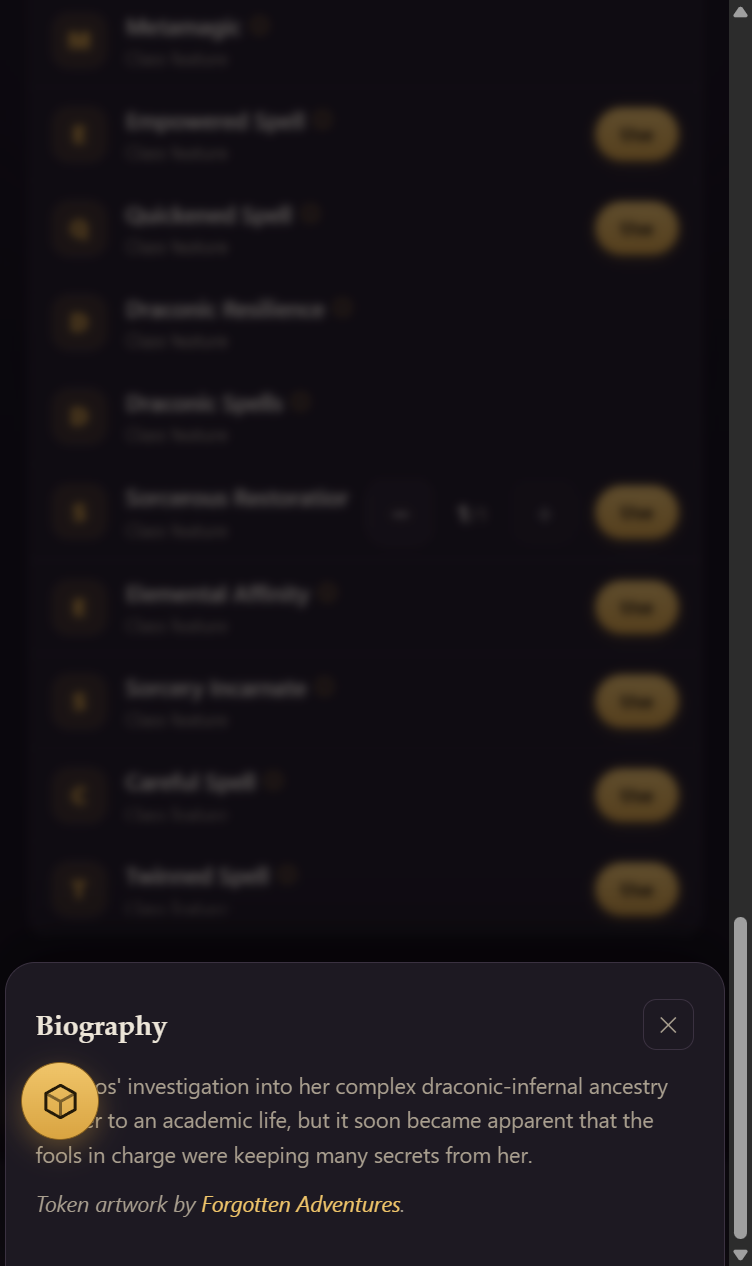
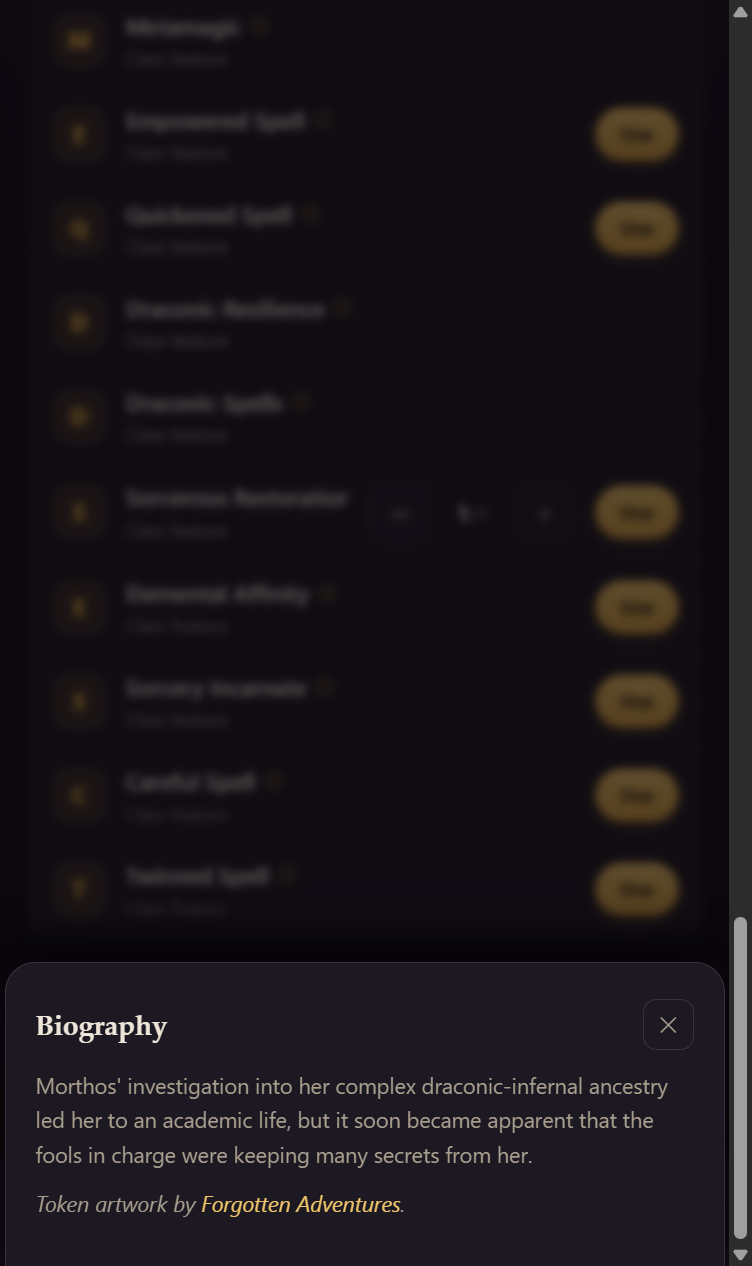
fix(web): modals cover dice FAB; docs: dnd5e key scope; feat: safe update
- fix(web): raise .scrim above the dice-tray FAB (z-65) so open modals
  (Roll History, Biography, item/spell details, HP numpad, etc.) fully cover
  it instead of the FAB bleeding through and occluding the total column.
- docs(hosting): add the encounter:read scope to the manual A6 key list and
  note that weapon attacks / item uses route through the dnd5e scope (omitting
  it makes them 502). The turnkey bootstrap already mints these correctly.
- feat(update): data-safe `make update` / scripts/update-stack.mjs — git pull
  + compose pull + up -d --build, never down/-v/rm/prune, so the world,
  players, secrets and relay DB are preserved. Guarded by a unit test that
  fails the build if a destructive step is ever introduced. Documented in
  HOSTING.md C4b.
- refresh the Roll History + Biography walkthrough screenshots (no overlap).

Changed region(s): [[0.0306, 0.8318, 0.1529, 0.9242]]

diff --git a/apps/bootstrap/test/update-cli.test.ts b/apps/bootstrap/test/update-cli.test.ts
@@ -1,0 +1,38 @@
+import { describe, expect, it } from 'vitest';
+import {
+  buildUpdateSteps,
+  hasDestructiveStep,
+  DESTRUCTIVE_TOKENS,
+} from '../../../scripts/update-stack.mjs';
+
+const compose = ['docker', 'compose'];
+
+describe('buildUpdateSteps', () => {
+  it('NEVER emits a state-nuking token (the core "don\'t reset my setup" guarantee)', () => {
+    const steps = buildUpdateSteps(compose, { pull: true });
+    expect(hasDestructiveStep(steps)).toBe(false);
+    for (const s of steps) {
+      for (const t of DESTRUCTIVE_TOKENS) expect(s.cmd).not.toContain(t);
+    }
+  });
+
+  it('does exactly: pull code → pull images → rebuild & restart', () => {
+    const steps = buildUpdateSteps(compose, { pull: true });
+    expect(steps.map((s) => s.cmd.join(' '))).toEqual([
+      'git pull --ff-only',
+      'docker compose pull',
+      'docker compose up -d --build',
+    ]);
+  });
+
+  it('--no-pull skips the git step and keeps the two compose steps', () => {
+    const steps = buildUpdateSteps(compose, { pull: false });
+    expect(steps.some((s) => s.cmd[0] === 'git')).toBe(false);
+    expect(steps).toHaveLength(2);
+    expect(hasDestructiveStep(steps)).toBe(false);
+  });
+
+  it('hasDestructiveStep catches a destructive plan (down -v)', () => {
+    expect(hasDestructiveStep([{ label: 'x', cwd: '.', cmd: ['docker', 'compose', 'down', '-v'] }])).toBe(true);
+  });
+});

diff --git a/apps/web/app/assets/css/main.css b/apps/web/app/assets/css/main.css
@@ -410,7 +410,9 @@ img {
 .scrim {
   position: fixed;
   inset: 0;
-  z-index: 60;
+  /* Above the dice-tray FAB (z-60) so open modals fully cover it, but below
+     the transient roll pill (70) and toasts (80). */
+  z-index: 65;
   background: rgba(6, 4, 8, 0.62);
   backdrop-filter: blur(3px);
   display: flex;

diff --git a/docs/HOSTING.md b/docs/HOSTING.md
@@ -154,12 +154,15 @@ curl -s -X POST http://localhost:3010/auth/register \
 curl -s -X POST http://localhost:3010/auth/api-keys \
   -H 'content-type: application/json' \
   -H 'authorization: Bearer <sessionToken>' \
-  -d '{"name":"gateway","scopes":["entity:read","entity:write","search","events:subscribe","clients:read","dnd5e","roll:execute","chat:read","roll:read"]}'
+  -d '{"name":"gateway","scopes":["entity:read","entity:write","search","events:subscribe","clients:read","dnd5e","roll:execute","chat:read","roll:read","encounter:read"]}'
 ```
 
 Save the `key` from step 2 into `stack/.env.gateway` as **RELAY_API_KEY**. It
 is shown once. (Those scopes cover reads, scoped writes, live push, the dnd5e
-actions, dice rolling, and the GM roll feed.)
+actions — weapon attacks and item uses route through the `dnd5e` scope, so
+omitting it makes those 502 — dice rolling, the GM roll feed, and the encounter
+list. The turnkey `make setup` mints these automatically; this list is only for
+manual setups.)
 
 ### A7. Pair the module to the relay
 
@@ -571,6 +574,34 @@ world, the sidecar's converge loop re-establishes the relay session (or, if
 still on the pairing fallback, the once-paired browser connection tokens
 still work once you reopen a GM tab), and the gateway re-resolves the
 `clientId` automatically.
+
+### C4b. Updating without losing your setup
+
+Because all state lives in the host bind-mount folders (C4), updating is safe:
+pull the new code, refresh/rebuild the images, and recreate only the changed
+containers. Your world, `players.yaml`, secrets and the relay DB are reattached,
+never rebuilt.
+
+```bash
+make update
+# equivalently: node scripts/update-stack.mjs
+#   git pull --ff-only  →  compose pull  →  compose up -d --build
+# flags: --no-pull (rebuild/restart only, skip git)
+```
+
+What it will **never** do: `down`, `-v`, `--volumes`, `rm`, `prune` — there is
+no code path in `scripts/update-stack.mjs` that removes a container, volume or
+bind mount, and a unit test (`apps/bootstrap/test/update-cli.test.ts`) fails the
+build if one is ever introduced. If a step errors mid-update, your data is
+untouched — fix the cause and re-run `make update`.
+
+> Why not an in-app "Update" button? The app runs *inside* the stack, so it
+> can't safely tear down and restart the host's containers from within one of
+> them. `make update` runs on the host, where that's safe and atomic.
+
+After an image bump that changes the pinned Foundry/relay versions, re-read
+`docs/OPERATIONS.md` and `VERSIONS.md` first — adapter fixtures pin document
+shapes and will flag a breaking system upgrade.
 
 ### C5. Status page and health
 